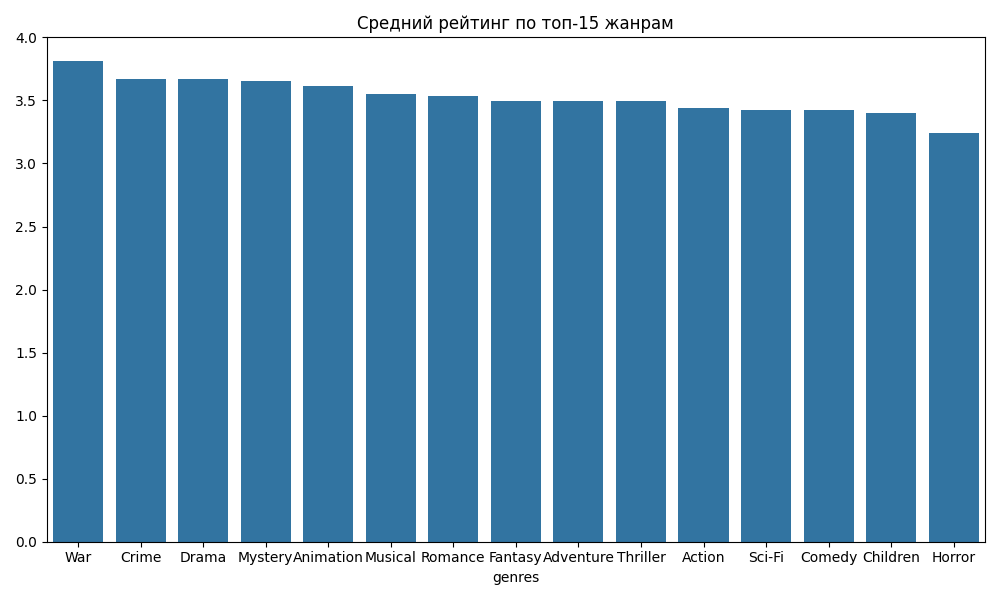
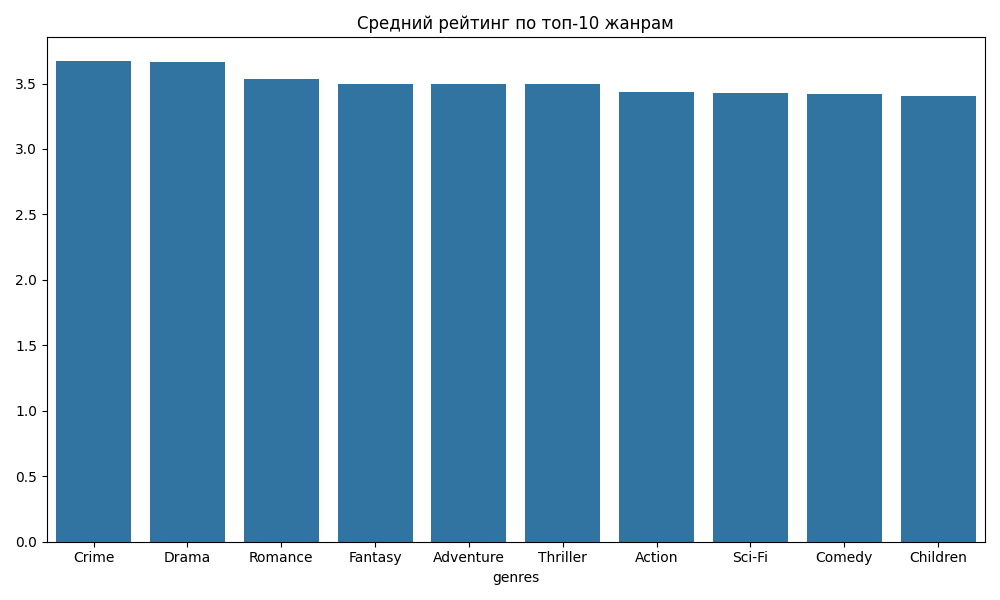
remove KMeans. 0.35 0.012 0.94 0.76

diff --git a/model/lightfm/features_builder.py b/model/lightfm/features_builder.py
@@ -4,7 +4,7 @@ import numpy as np
 import logging
 from typing import Optional
 from sklearn.preprocessing import StandardScaler
-from sklearn.cluster import KMeans
+# from sklearn.cluster import KMeans
 
 def build_user_features(
     reviews_df: pd.DataFrame,
@@ -48,16 +48,23 @@ def build_user_features(
     user_genres = exploded.groupby(['user_id', 'genre'])['rating'].count().unstack(fill_value=0)
     user_genres[user_genres > 0] = 1  # бинарные признаки: смотрел жанр или нет
 
+    # топ-3 любимых жанра
+    top_genres = user_genres.apply(lambda x: x.nlargest(3).index.tolist(), axis=1)
+    top_genres_df = pd.DataFrame(index=user_genres.index)
+    for i in range(3):
+        top_genres_df[f'top_genre_{i+1}'] = top_genres.apply(lambda x: x[i] if len(x) > i else None)
+    top_genres_df = pd.get_dummies(top_genres_df, dummy_na=True)
+    
     # --- кластеризация пользователей по жанрам ---
-    kmeans = KMeans(n_clusters=n_clusters, random_state=42)
-    user_clusters = kmeans.fit_predict(user_genres)
-    user_clusters_df = pd.DataFrame({'user_id': user_genres.index, 'user_cluster': user_clusters})
-    user_clusters_onehot = pd.get_dummies(user_clusters_df['user_cluster'], prefix='cluster')
-    user_clusters_onehot['user_id'] = user_genres.index
+    # kmeans = KMeans(n_clusters=n_clusters, random_state=42)
+    # user_clusters = kmeans.fit_predict(user_genres)
+    # user_clusters_df = pd.DataFrame({'user_id': user_genres.index, 'user_cluster': user_clusters})
+    # user_clusters_onehot = pd.get_dummies(user_clusters_df['user_cluster'], prefix='cluster')
+    # user_clusters_onehot['user_id'] = user_genres.index
 
-    # объединяем все признаки
-    user_features = user_stats.merge(user_genres.reset_index(), on='user_id')
-    user_features = user_features.merge(user_clusters_onehot, on='user_id')
+    # --- объединяем все признаки ---
+    user_features = pd.concat([user_stats.set_index('user_id'), user_genres, top_genres_df], axis=1)
+    user_features.reset_index(inplace=True)
 
     return user_features
 
@@ -84,7 +91,9 @@ def build_item_features(reviews_df: pd.DataFrame,
     genres_df = movies_df['genres'].str.get_dummies(sep='|')
     genres_df.columns = [f'genre_{c}' for c in genres_df.columns]
 
-    # --- year-bin ---
+    # --- year-bin и возраст фильма ---
+    current_year = 2025
+    movies_df['movie_age'] = current_year - movies_df['year']
     bins = [1900, 1980, 1990, 2000, 2010, 2020, 2025]
     labels = ['<1980','1980-1989','1990-1999','2000-2009','2010-2019','>=2020']
     year_bin = pd.cut(movies_df['year'], bins=bins, labels=labels, right=False)

diff --git a/reports/eda/run_eda.py b/reports/eda/run_eda.py
@@ -18,15 +18,15 @@ def run_eda():
     logging.basicConfig(level=logging.INFO)
 
     logging.info("Loading data from files...")
-    movies_list = load_movies("data/dataset/movies.csv", nrows=1_000_000)
-    reviews_list = load_reviews("data/dataset/ratings.csv", nrows=3_000_000)
+    movies_list = load_movies("data/ml-20m/movies.csv", nrows=1_000_000)
+    reviews_list = load_reviews("data/ml-20m/ratings.csv", nrows=3_000_000)
 
 
     movies_df, reviews_df, _ = create_dataframes(
-        movies_list, reviews_list
+        movies_list, reviews_list, users_df=None
     )
     
-    full_dataset_df = merge_datasets(movies_df, reviews_df)
+    full_dataset_df = merge_datasets(movies_df, reviews_df, users_df=None)
 
     logging.info("Full dataset created!")
 
@@ -36,6 +36,8 @@ def run_eda():
     print("\nColumns and their data types:")
     full_dataset_df.info()
 
+    _ensure_assets_dir()
+    
     # визуализация распределения рейтингов
     plt.figure(figsize=(8, 6))
     sns.countplot(x='rating', data=full_dataset_df)
@@ -58,7 +60,7 @@ def run_eda():
     plt.close()
     
     genre_counts = full_dataset_df["genres"].str.split("|").explode().value_counts()
-    top_genres = genre_counts.head(15).index
+    top_genres = genre_counts.head(10).index
 
     top_genre_ratings = (
         full_dataset_df["genres"]
@@ -73,7 +75,7 @@ def run_eda():
 
     plt.figure(figsize=(10,6))
     sns.barplot(x=top_genre_ratings.index, y=top_genre_ratings.values)
-    plt.title("Средний рейтинг по топ-15 жанрам")
+    plt.title("Средний рейтинг по топ-10 жанрам")
     plt.tight_layout()
     plt.savefig(os.path.join(ASSETS_DIR, "avg_rating_by_genre.png"))
     plt.close()

diff --git a/model/lightfm/train_model.py b/model/lightfm/train_model.py
@@ -34,7 +34,9 @@ def run_training():
     model = LightFM(
         loss='warp',
         no_components=30,
-        learning_rate=0.05
+        # learning_schedule='adagrad',
+        # user_alpha=1e-9,   # L2 регуляризация для пользователей
+        # item_alpha=1e-9    # L2 регуляризация для предметов
     )
     
     # обучаем модель
@@ -45,7 +47,7 @@ def run_training():
         epochs=10,
         num_threads=4
     )
-    
+     
     # оцениваем модель
     test_interactions, _, _ = build_interactions_matrix(test_df)
     

diff --git a/model/lightfm/build_matrices.py b/model/lightfm/build_matrices.py
@@ -57,6 +57,7 @@ def build_features_matrices(
         user_features_df['user_bias'] = 1.0
     
     # реиндексируем, чтобы гарантировать правильный порядок
+    user_features_df = user_features_df.drop_duplicates(subset=['user_id'])
     user_features_df = user_features_df.set_index('user_id').reindex(user_to_idx.keys()).fillna(0)
     
     user_features_matrix = coo_matrix(user_features_df.values.astype(np.float32))
